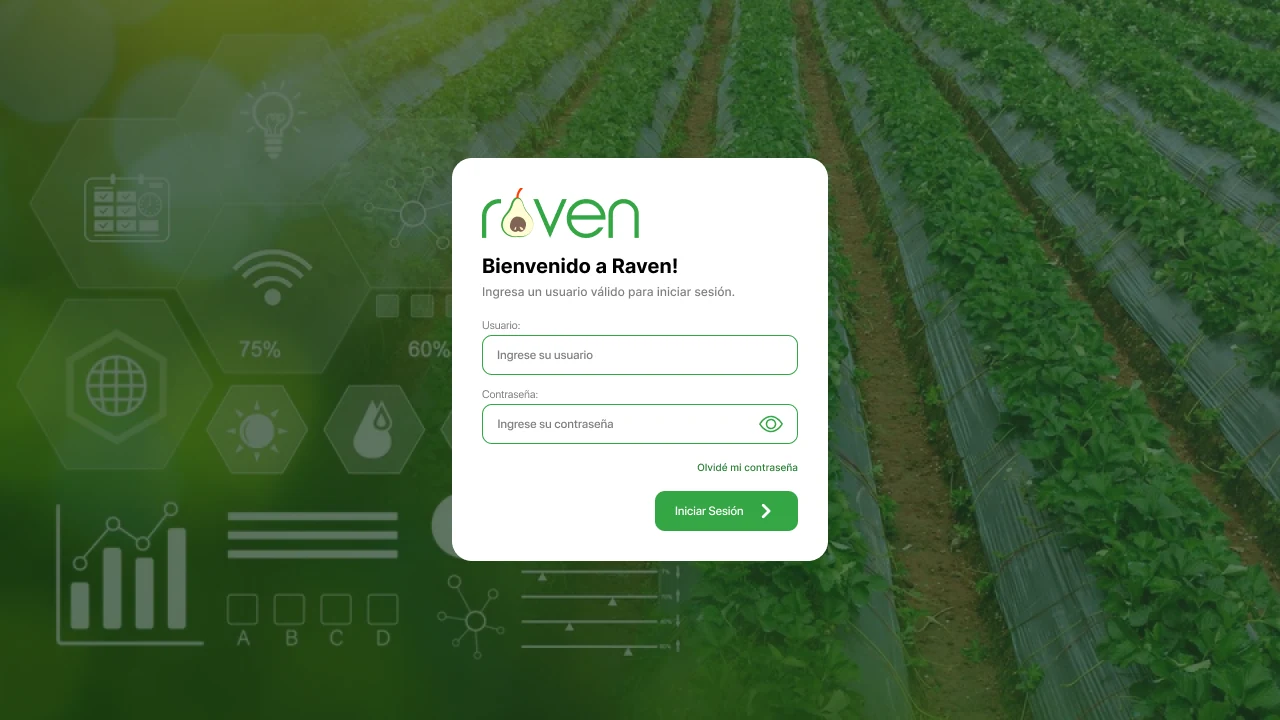
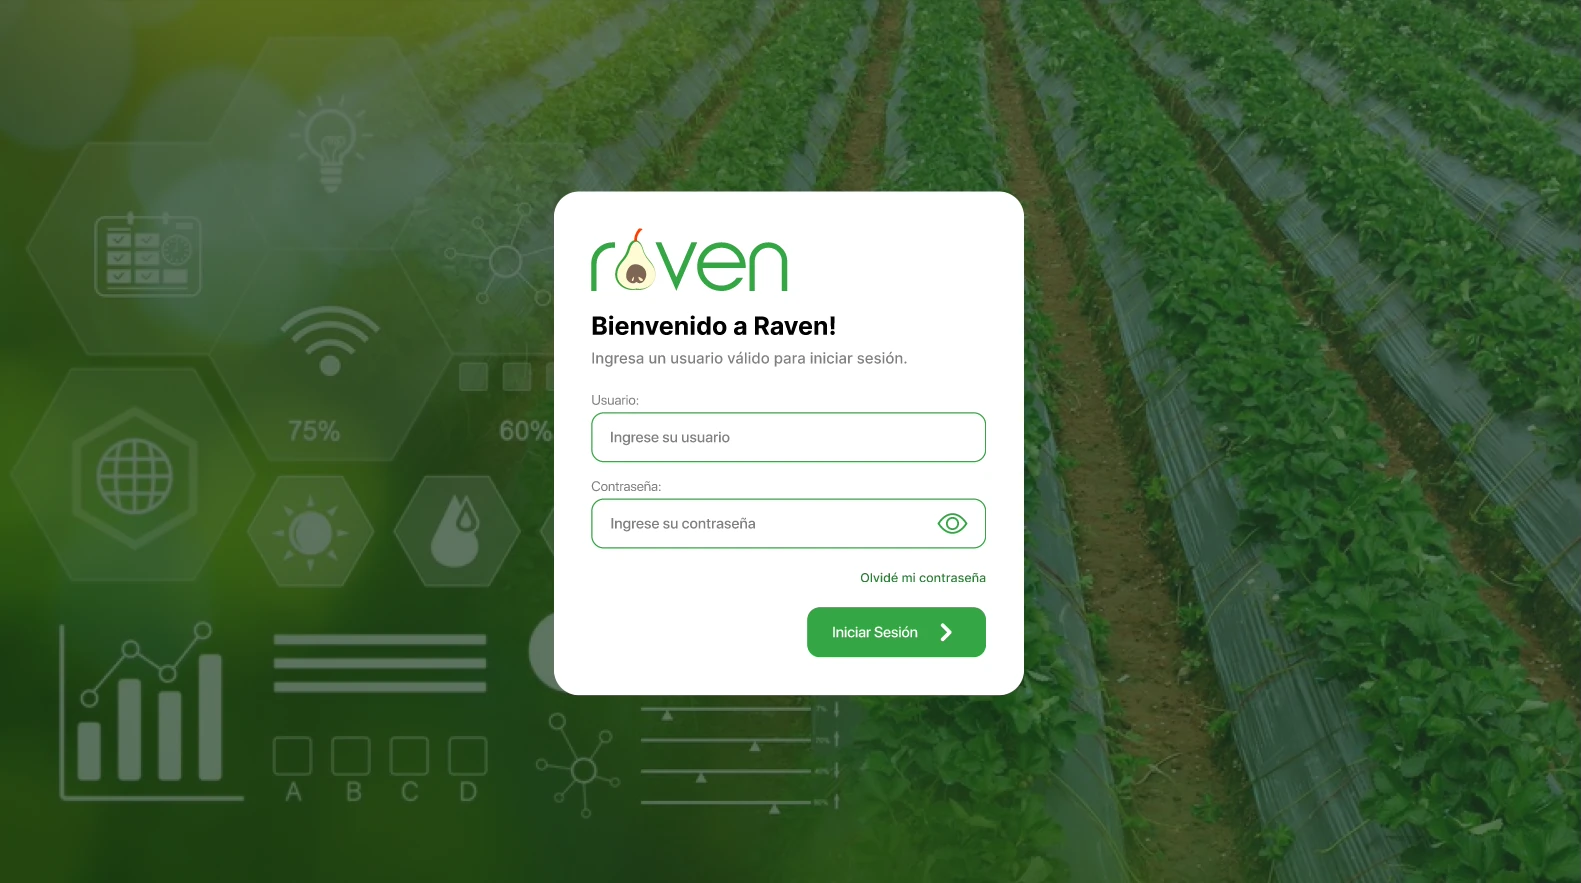
Raven: portada nueva, sistema de diseño y textos de las pantallas a todo el ancho
- Portada: la imagen de inicio de sesión que pasó Levi (1581 x 883, WebP 90),
  más grande y nítida que la anterior; también sale en la tarjeta del inicio.
- El texto de cada pantalla ocupa todo el ancho de su imagen (en los dos casos).
  Si las pantallas son impares, la última va como las demás, con su texto debajo.
- Nueva parte "Sistema de diseño" (designSystem en site.js): texto, paleta en una
  fila (de tres en tres en tablet y celular) y grupos de componentes, con el
  texto de Levi. También acepta logos, que por ahora no se usan.
- El texto del video ahora dice "Veamos cómo funciona Raven.".
- Raven ya no tiene "Siguientes pasos".

Claude-Session: https://claude.ai/code/session_011scQf4aKVeprEEDhfHFLiR

diff --git a/src/styles.css b/src/styles.css
@@ -546,7 +546,7 @@ img, video { display: block; max-width: 100%; }
 .case__steps li::before { content: counter(paso, decimal-leading-zero); font-size: var(--size-label); font-weight: 600; letter-spacing: .08em; color: var(--brand); }
 .case__steps strong { display: block; margin-top: 8px; font-weight: 600; }
 .case__steps span { display: block; margin-top: 4px; font-size: var(--size-small); line-height: 1.5; color: var(--muted); }
-/* Usuarios, decisiones y siguientes pasos: de tres en tres si son tres y si no de dos en dos (uno debajo de otro en tablet y celular) */
+/* Usuarios, componentes, decisiones y siguientes pasos: de tres en tres si son tres y si no de dos en dos (uno debajo de otro en tablet y celular) */
 .case__points { display: grid; grid-template-columns: repeat(2, minmax(0, 1fr)); gap: 28px 32px; }
 .case__points:has(> :nth-child(3):last-child) { grid-template-columns: repeat(3, minmax(0, 1fr)); }
 .case__points > div { padding-top: 14px; border-top: 1px solid var(--line); }
@@ -557,13 +557,8 @@ img, video { display: block; max-width: 100%; }
 .case__flow img { width: 100%; height: auto; border-radius: 16px; }
 .case__screens { display: grid; grid-template-columns: repeat(2, minmax(0, 1fr)); gap: clamp(32px, 4vw, 56px) clamp(16px, 2vw, 32px); }
 .case__screens img { width: 100%; height: auto; border: 1px solid var(--line); border-radius: 12px; }
-.case__screens figcaption { margin-top: 14px; max-width: 52ch; font-size: var(--size-small); line-height: 1.5; color: var(--muted); }
+.case__screens figcaption { margin-top: 14px; font-size: var(--size-small); line-height: 1.5; color: var(--muted); }
 .case__screens figcaption strong { color: var(--ink); font-weight: 600; }
-/* Si son impares, la última lleva su texto al lado, en el hueco que quedaría a la derecha */
-@media (min-width: 1001px) {
-  .case__screens figure:last-child:nth-child(odd) { grid-column: 1 / -1; display: grid; grid-template-columns: repeat(2, minmax(0, 1fr)); column-gap: clamp(16px, 2vw, 32px); align-items: end; }
-  .case__screens figure:last-child:nth-child(odd) figcaption { margin-top: 0; }
-}
 /* Versión móvil: las pantallas del celular en fila, de un lado al otro y sin pasar de 340px cada una */
 .case__phones { display: grid; grid-template-columns: repeat(4, minmax(0, 340px)); justify-content: space-between; gap: clamp(28px, 4vw, 40px) clamp(12px, 2vw, 32px); }
 .case__phones img { width: 100%; height: auto; border: 1px solid var(--line); border-radius: clamp(10px, 1.1vw, 16px); }
@@ -571,6 +566,16 @@ img, video { display: block; max-width: 100%; }
 /* Video de presentación: en la columna del texto (a todo lo ancho en tablet y celular) */
 .case__promo { width: 100%; height: auto; border-radius: 16px; background: var(--ink); }
 .case section > p + .case__promo { margin-top: clamp(8px, 1.5vw, 16px); }
+/* Sistema de diseño: la paleta en una fila (de tres en tres en tablet y celular), los logos lado a lado y los componentes */
+.case section > :is(.case__colors, .case__logos, .case__colors + .case__points, .case__logos + .case__points) { margin-top: clamp(8px, 1.5vw, 16px); }
+.case__colors { list-style: none; display: grid; grid-auto-flow: column; grid-auto-columns: minmax(0, 1fr); gap: 20px 12px; }
+/* La línea interior marca el borde de los colores claros sobre el fondo blanco */
+.case__colors span { display: block; aspect-ratio: 4 / 3; border-radius: 12px; box-shadow: inset 0 0 0 1px rgba(14, 14, 14, .1); }
+.case__colors strong { display: block; margin-top: 10px; font-size: var(--size-small); font-weight: 600; }
+.case__colors code { display: block; margin-top: 2px; font-family: inherit; font-size: var(--size-small); color: var(--muted); }
+.case__logos { display: grid; grid-template-columns: repeat(auto-fit, minmax(min(100%, 240px), 1fr)); gap: 12px; }
+.case__logos div { display: grid; place-items: center; padding: clamp(28px, 4vw, 44px) 24px; border: 1px solid var(--line); border-radius: 12px; }
+.case__logos img { height: clamp(40px, 4.5vw, 60px); width: auto; max-width: 100%; }
 /* Más imágenes del caso: una debajo de otra o lado a lado si caben; las muy altas se recortan por arriba y por abajo */
 .case__gallery { display: grid; grid-template-columns: repeat(auto-fit, minmax(min(100%, 260px), 1fr)); gap: 16px; margin-bottom: clamp(48px, 6vw, 96px); }
 .case__gallery img { width: 100%; height: auto; max-height: 80vh; object-fit: cover; border-radius: 16px; }
@@ -653,6 +658,7 @@ img, video { display: block; max-width: 100%; }
   .case section > .case__promo { grid-column: 1 / -1; }
   .case__steps { grid-template-columns: repeat(3, minmax(0, 1fr)); }
   .case__points, .case__points:has(> :nth-child(3):last-child) { grid-template-columns: 1fr; }
+  .case__colors { grid-auto-flow: row; grid-template-columns: repeat(3, minmax(0, 1fr)); }
   .about__lists { grid-template-columns: 1fr; }
   .process__list { grid-template-columns: repeat(2, 1fr); }
   .case-card { grid-template-columns: repeat(2, minmax(0, 1fr)); }

diff --git a/src/data/site.js b/src/data/site.js
@@ -100,7 +100,7 @@ export const screens = [
 // Sin portada se muestra un móvil o un navegador de ejemplo (`type: 'web'`) sobre el color del caso.
 // `tags`: etiquetas cortas que se ven en la tarjeta (tipo de proyecto, plataforma...).
 // Solo hacen falta título, año, rol y resumen: lo demás (live, platform, duration, tools, description, problem,
-// users, process, flow, screens, mobile, promo, decisions, gallery, stack, metrics, next) es opcional y, si no lo pones,
+// users, process, flow, screens, mobile, promo, designSystem, decisions, gallery, stack, metrics, next) es opcional y, si no lo pones,
 // esa parte no sale en el caso.
 export const projects = [
   {
@@ -276,9 +276,29 @@ export const projects = [
     promo: {
       src: '/assets/video/raven-recorrido.mp4',
       poster: '/assets/img/raven-recorrido.webp',
-      caption: 'Recorrido animado de 28 segundos por las pantallas principales.',
+      caption: 'Veamos cómo funciona Raven.',
     },
-    // Decisiones de diseño (salen después del video, de dos en dos)
+    // Sistema de diseño (sale después del video): texto, paleta y grupos de componentes. También acepta
+    // `logos: [{ src, alt, background }]`, en fila debajo de la paleta (`background`: color detrás del logo; si no, blanco)
+    designSystem: {
+      caption:
+        'La paleta sale del propio producto: el verde de las hojas como color principal y los tonos de la palta en el logo. Los colores de estado se reservan para alertas y errores.',
+      colors: [
+        { name: 'Primario', value: '#35A645' },
+        { name: 'Primario oscuro', value: '#1C5925' },
+        { name: 'Primario suave', value: '#E4F6E7' },
+        { name: 'Alerta', value: '#F0AF23' },
+        { name: 'Error', value: '#EA3B3B' },
+        { name: 'Texto', value: '#313131' },
+      ],
+      components: [
+        { title: 'Navegación', text: 'Barra lateral de íconos, migas de pan y pasos de simulación.' },
+        { title: 'Entradas', text: 'Campos con etiqueta, selectores, calendarios y filtros.' },
+        { title: 'Datos', text: 'Tablas paginadas, barras de meta e indicadores circulares.' },
+        { title: 'Feedback', text: 'Toasts, cargadores, confirmaciones y etiquetas de estado.' },
+      ],
+    },
+    // Decisiones de diseño (salen después del sistema de diseño, de dos en dos)
     decisions: [
       { title: 'Contexto primero', text: 'Empresa y campaña se eligen al entrar y se mantienen visibles en el título de cada pantalla, por ejemplo “Simulaciones Arato II”.' },
       { title: 'La meta siempre a la vista', text: 'Cada vista que trabaja con toneladas muestra la meta y cuánto falta, para que nadie tenga que calcularlo.' },
@@ -290,12 +310,6 @@ export const projects = [
     metrics: [
       { value: '49', label: 'pantallas' },
       { value: '335', label: 'componentes' },
-    ],
-    // Lo que harías en la próxima iteración (sale al final, en "Siguientes pasos")
-    next: [
-      { title: 'Probar el flujo con planificadores reales', text: 'Validar el orden tonelaje, corte y planeamiento con quienes arman la campaña.' },
-      { title: 'Prototipar con datos realistas', text: 'Reemplazar los valores de ejemplo por una campaña completa para revisar densidad y casos límite.' },
-      { title: 'Unificar la librería de componentes', text: 'Consolidar estilos de tipografía, color y botones en un solo sistema con nombres consistentes.' },
     ],
   },
   {
@@ -353,6 +367,7 @@ projects.forEach((p) => {
     p.promo.src = withBase(p.promo.src)
     p.promo.poster = withBase(p.promo.poster)
   }
+  p.designSystem?.logos?.forEach((l) => { l.src = withBase(l.src) })
 })
 
 // Nombre del caso para su enlace propio: "App de salud" -> "app-de-salud" (tusitio.com/#caso/app-de-salud)

diff --git a/src/components/CaseStudy.jsx b/src/components/CaseStudy.jsx
@@ -5,7 +5,7 @@ import { DeviceMock } from './Mocks.jsx'
 
 const pad = (n) => String(n).padStart(2, '0')
 
-// Puntos con nombre y texto, sobre una línea fina: usuarios, decisiones de diseño y siguientes pasos
+// Puntos con nombre y texto, sobre una línea fina: usuarios, componentes, decisiones de diseño y siguientes pasos
 function Points({ items }) {
   return (
     <dl className="case__points">
@@ -180,6 +180,35 @@ export default function CaseStudy({ index, onClose, onNavigate }) {
             <h2>La app en acción</h2>
             {p.promo.caption && <p>{p.promo.caption}</p>}
             <video className="case__promo" src={p.promo.src} poster={p.promo.poster} width={1920} height={1080} controls playsInline preload="metadata" />
+          </section>
+        )}
+
+        {/* Sistema de diseño: texto, paleta de colores, logos y grupos de componentes */}
+        {p.designSystem && (
+          <section>
+            <h2>Sistema de diseño</h2>
+            {p.designSystem.caption && <p>{p.designSystem.caption}</p>}
+            {p.designSystem.colors?.length > 0 && (
+              <ul className="case__colors" aria-label="Paleta de colores">
+                {p.designSystem.colors.map((c) => (
+                  <li key={c.value}>
+                    <span style={{ background: c.value }} />
+                    <strong>{c.name}</strong>
+                    <code>{c.value}</code>
+                  </li>
+                ))}
+              </ul>
+            )}
+            {p.designSystem.logos?.length > 0 && (
+              <div className="case__logos">
+                {p.designSystem.logos.map((l) => (
+                  <div key={l.src} style={l.background ? { background: l.background, borderColor: l.background } : undefined}>
+                    <img src={l.src} alt={l.alt} loading="lazy" />
+                  </div>
+                ))}
+              </div>
+            )}
+            {p.designSystem.components?.length > 0 && <Points items={p.designSystem.components} />}
           </section>
         )}
 
